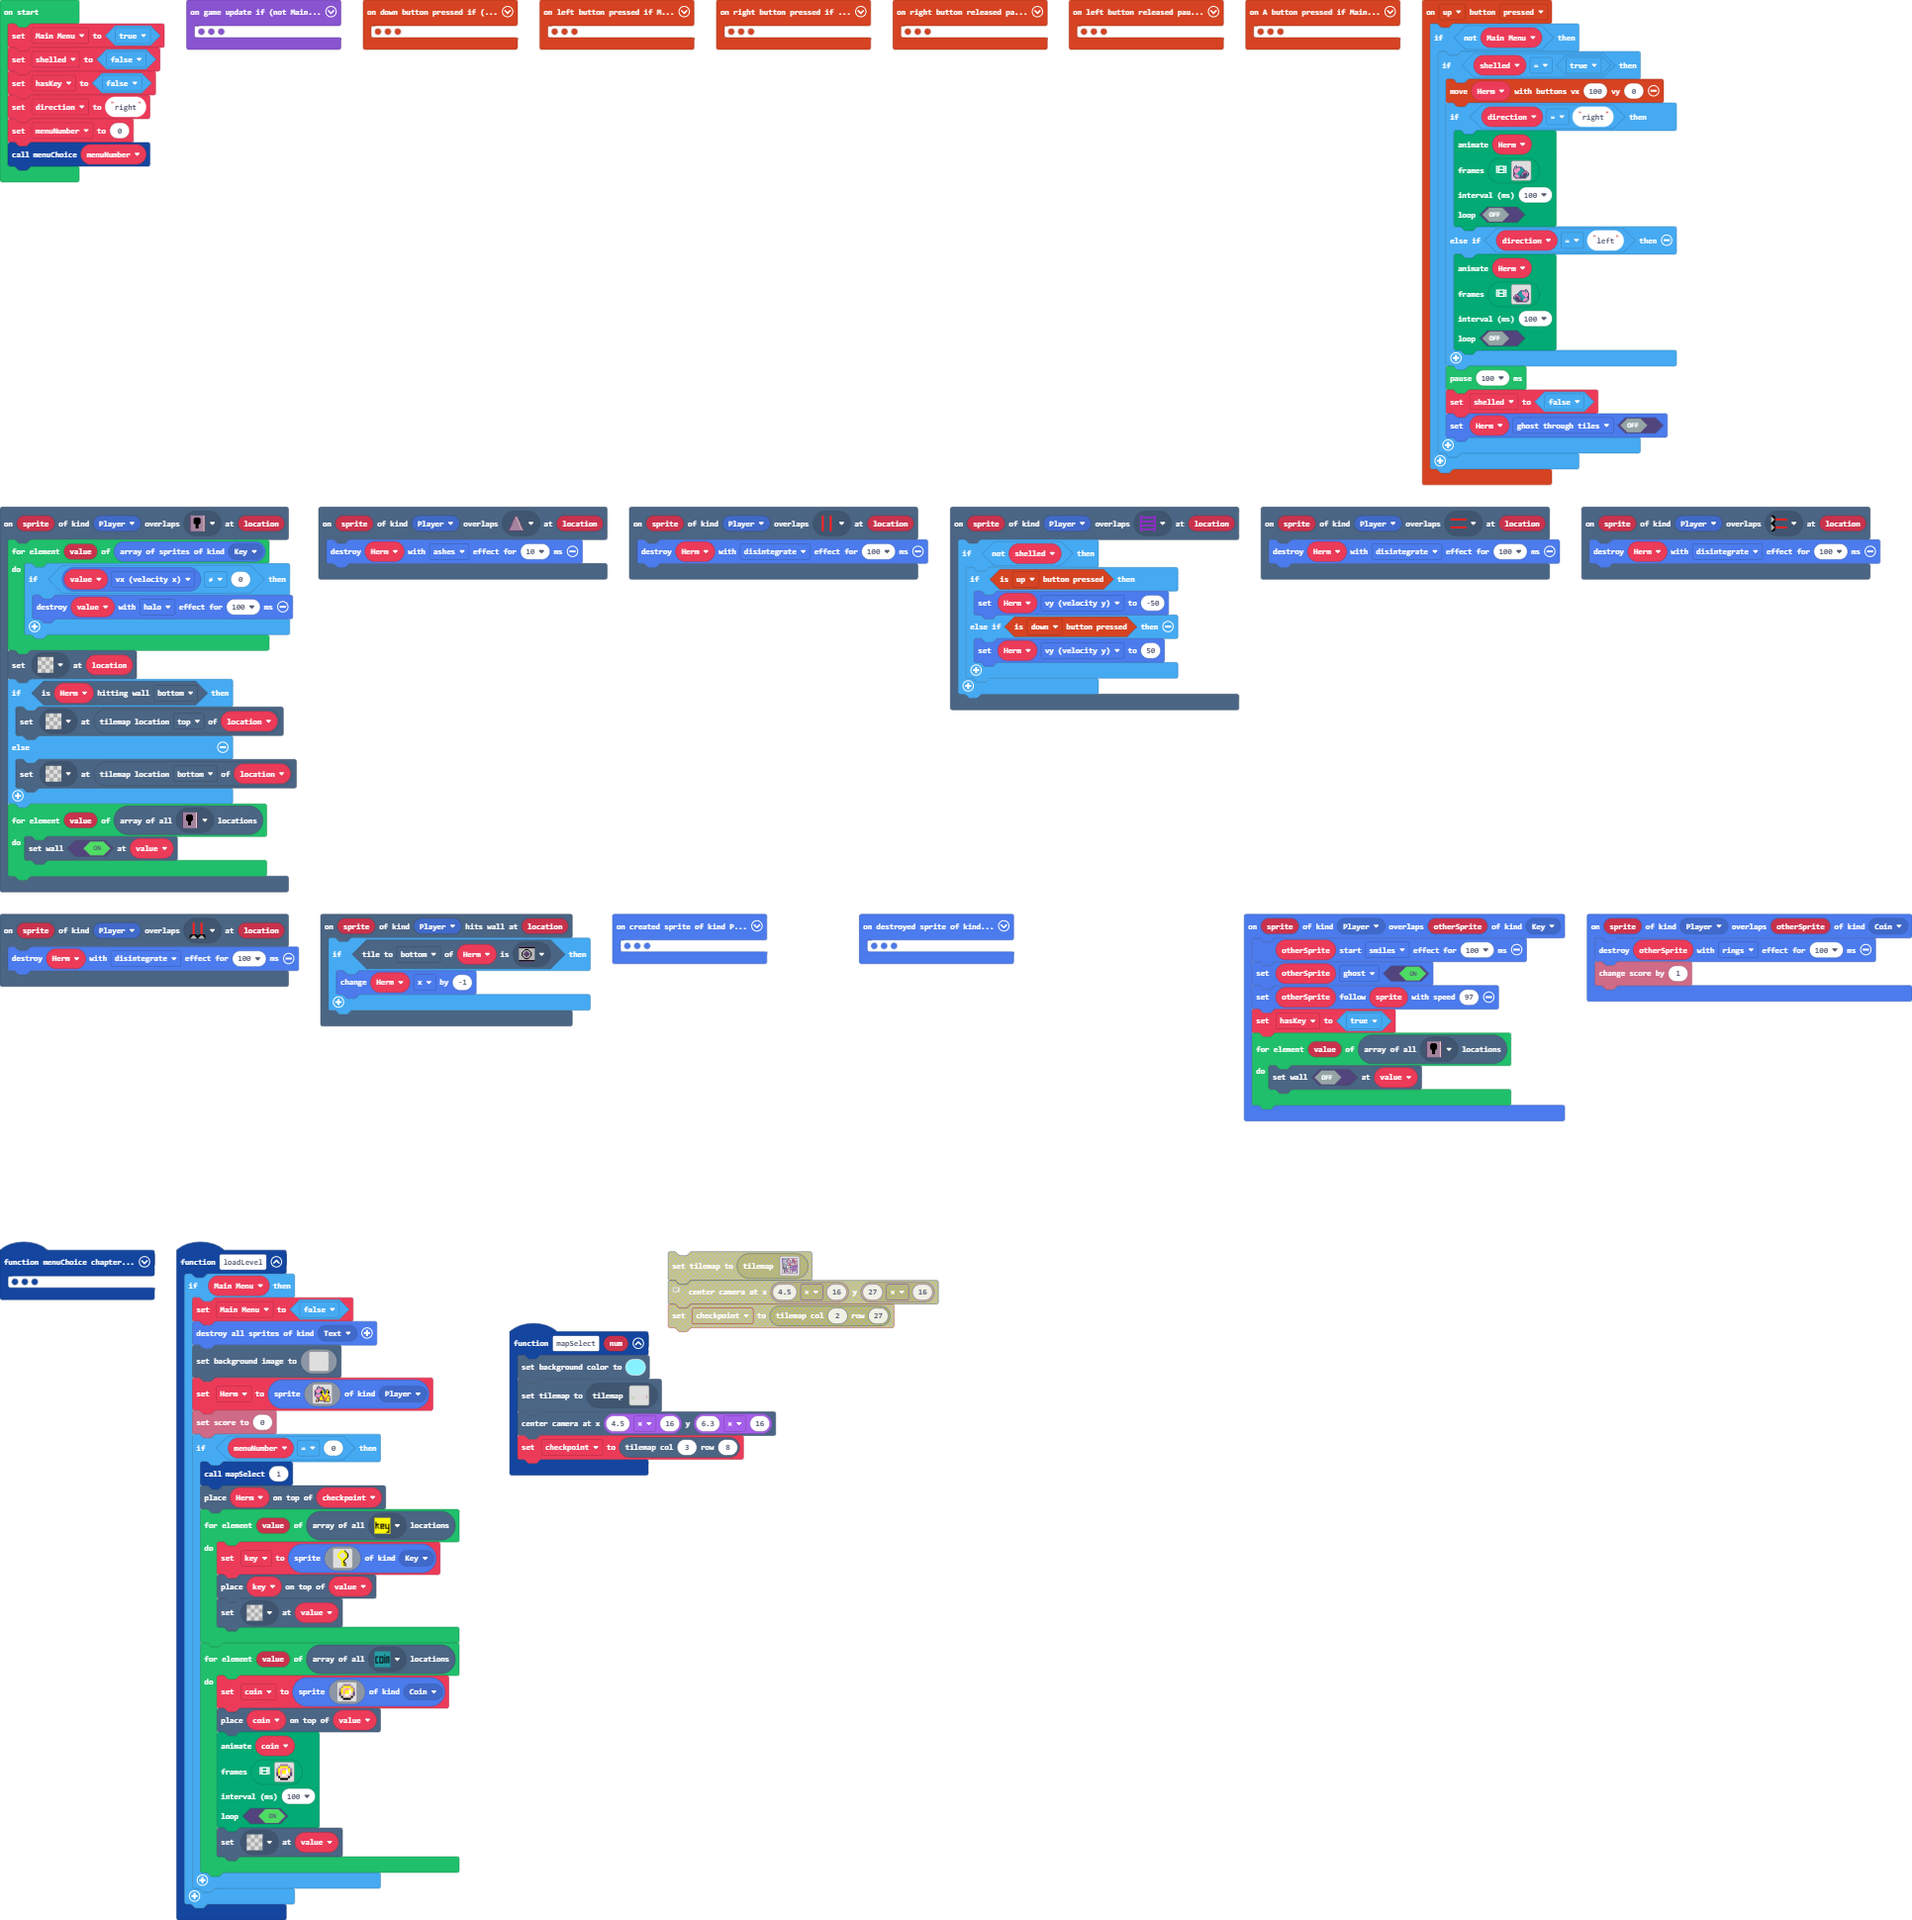
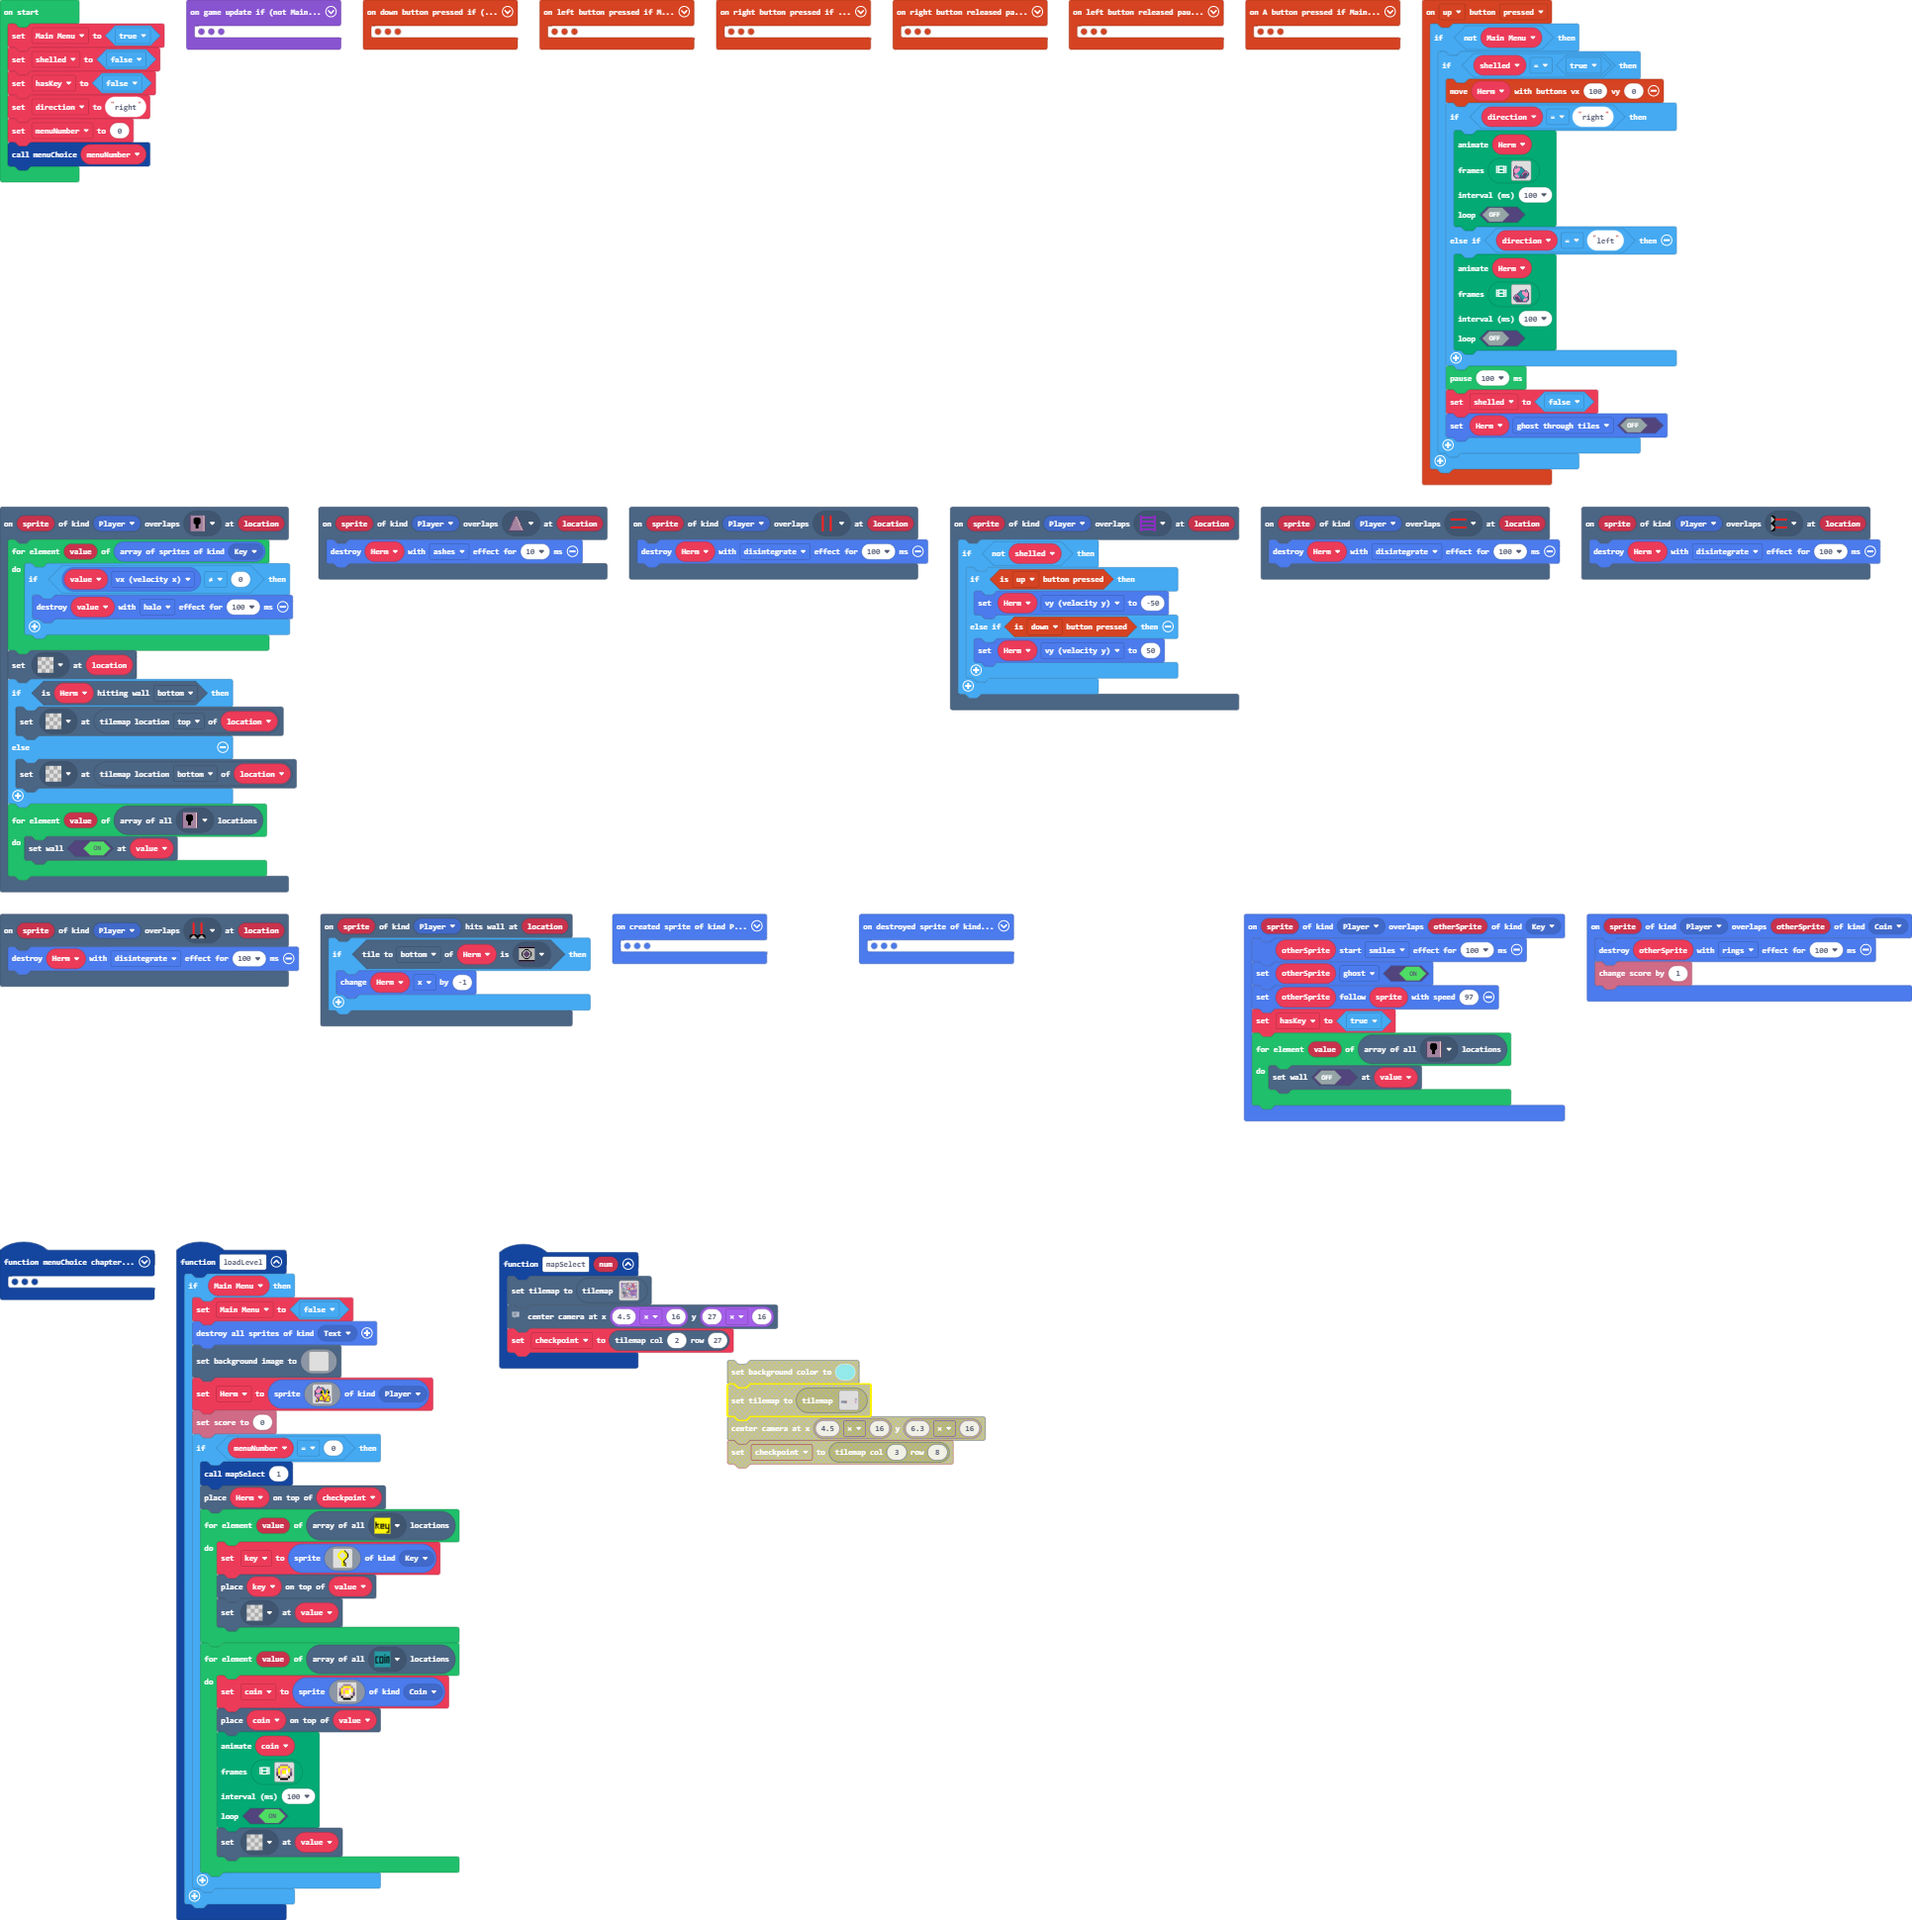
Update main.blocks, main.ts, tilemap.g.jres, tilemap.g.ts

Changed region(s): [[0.2484, 0.6495, 0.528, 0.7732]]

diff --git a/tilemap.g.ts b/tilemap.g.ts
@@ -148,25 +148,25 @@ namespace myTiles {
 . . . . . . . . . . . . . . . . 
 `, [myTiles.transparency16], TileScale.Sixteen);
             case "level6":
-            case "level6":return tiles.createTilemap(hex`280011000000000000000000000000000000000000000000000000000000000000000000000000000000000100000000000000000000000000000000000000000000000000000000000000000000000000000001000000000000000000000000000000000000000000000000000000000000000000000000000000010000000000000000000000000000000000000000000000000000000000000000000000000000000100000000000000000000000000000000000000000000000000000000000000000000000000000001000000000000000000000000000000000000000000000000000000000000000000000000000000010000000000000000000000000000000000000000000000000000000000000000000000000000000100000000000000000000000000000000000000000000000000000000000000000000000000000001000000000000000000000000000000000000000000000000000000000000000000000000000000010303030101010101010101010101010101010101010101010101010101010101010101010101020105060400000000000000000000000000000000000000000000000000000000000000000101010201010107000000000000000000000000000000000000000000000000000000000000000000010102010101070000000000000000000000000000000000000000000000000000000000000000000001020101010700000005040000000000000000000000000000000000000000000000000000000000000201010107000000090700000000000000000000000000000000000000000000000000000000000002010101070000000907000000000000000000000000000000000000000000000000000000000000020108080808080808080801010101010101010101010101010101010101010101010101010101010101`, img`
-.......................................2
-.......................................2
-.......................................2
-.......................................2
-.......................................2
-.......................................2
-.......................................2
-.......................................2
-.......................................2
-...22222222222222222222222222222222222.2
-222................................222.2
-2...................................22.2
-2....................................2.2
-2......................................2
-2......................................2
-22.....................................2
+            case "level6":return tiles.createTilemap(hex`280011000000000000000000000000000000000000000000000000000000000000000000000000000000000000000000000000000000000000000000000000000000000000000000000000000000000000000000000000000000000000000000000000000000000000000000000000000000000000000000000000000000000000000000000000000000000000000000000000000000000000000000000000000000000000000000000000000000000000000000000000000000000000000000000000000000000909090909000000000000000000000000000000000000000000000000000000000000000000000006060606060000000000000000000000000000000000000000000000000000000000000000000000060000000600000000000000000000000000000000000000000000000000000000000000000000000800000006000000000000000000000000000000000000000000000000000000000000000000000008000000060101010101010101010101010101010101010101010101010101010101010101010101010102010104000607070707060004000400040000000000000000000000000000000000000000000000020000030007060606060700030003000300000000000000000000000000000000000000000000000200000300060707070706000300030003000000000000000000000000000000000000000000000002000003000706060606070003000300030000000000000000000000000000000000000000000000020000030007060000060700030003000300000000000000000000000000000000000000000000000200000500070600000607000500050005000000000000000000000000000000000000000000000002000001010101010101010101010101010101010101010101010101010101010101010101010101010101`, img`
+........................................
+........................................
+........................................
+........................................
+........................................
+........................................
+........................................
+........................................
+........................................
+2222222222222222222222222222222222222.22
+..222222................................
+..222222................................
+..222222................................
+..222222................................
+..22....................................
+..22....................................
 2222222222222222222222222222222222222222
-`, [myTiles.transparency16,sprites.castle.tilePath5,myTiles.tile3,sprites.dungeon.hazardWater,sprites.castle.tilePath3,sprites.castle.tilePath1,sprites.castle.tilePath2,sprites.castle.tilePath6,sprites.castle.tileGrass1,sprites.castle.tilePath4], TileScale.Sixteen);
+`, [myTiles.transparency16,sprites.castle.tilePath5,myTiles.tile3,myTiles.tile5,myTiles.tile6,myTiles.tile7,myTiles.tile1,myTiles.tile9,myTiles.tile10,myTiles.tile12], TileScale.Sixteen);
         }
         return null;
     })

diff --git a/main.ts b/main.ts
@@ -1134,10 +1134,10 @@ controller.down.onEvent(ControllerButtonEvent.Pressed, function () {
     }
 })
 function mapSelect (num: number) {
-    scene.setBackgroundColor(9)
-    tiles.setCurrentTilemap(tilemap`level6`)
-    scene.centerCameraAt(4.5 * 16, 6.3 * 16)
-    checkpoint = tiles.getTileLocation(3, 8)
+    tiles.setCurrentTilemap(tilemap`level2`)
+    // column at half of the room, same row as Herm.
+    scene.centerCameraAt(4.5 * 16, 27 * 16)
+    checkpoint = tiles.getTileLocation(2, 27)
 }
 scene.onOverlapTile(SpriteKind.Player, assets.tile`myTile14`, function (sprite, location) {
     sprites.destroy(Herm, effects.disintegrate, 100)
